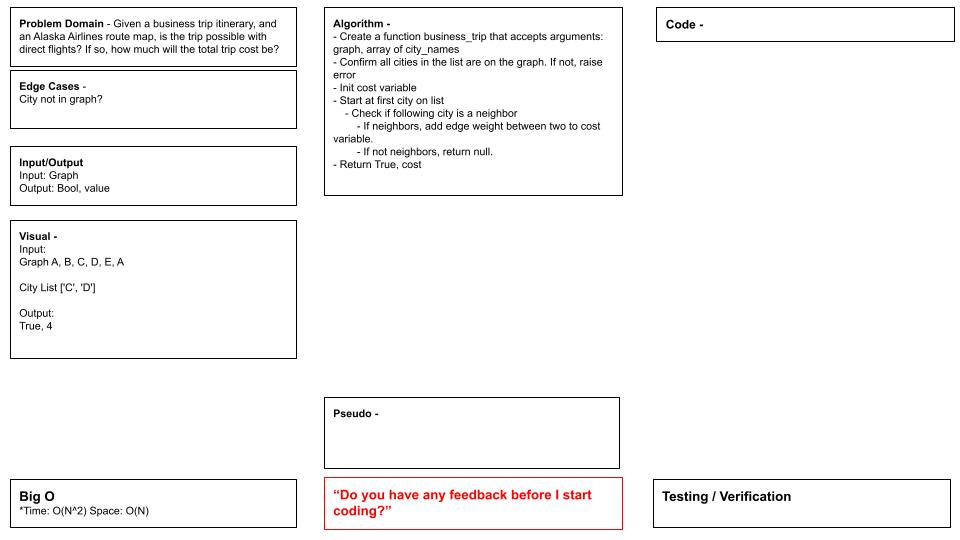
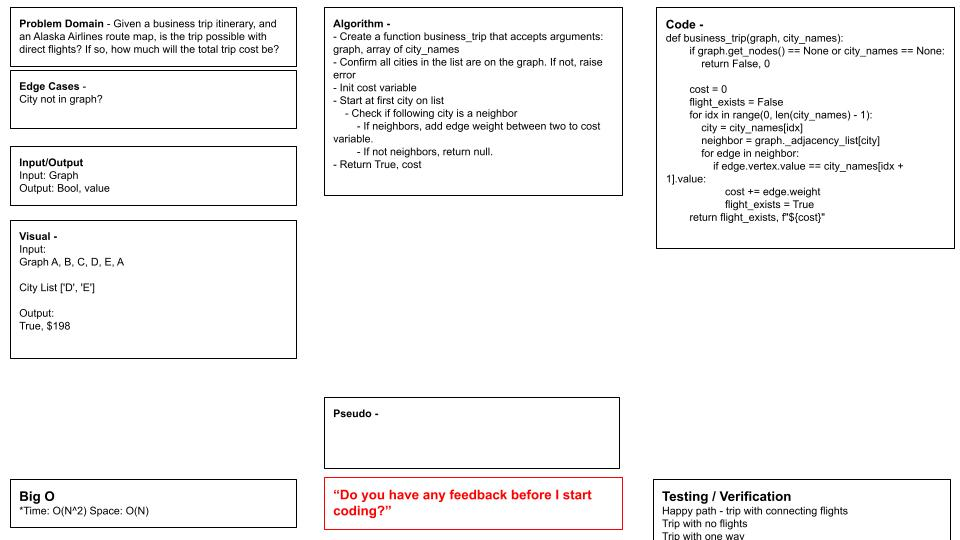
Tests Passing

diff --git a/python/code_challenges/graph_business_trip/graph_business_trip.py b/python/code_challenges/graph_business_trip/graph_business_trip.py
@@ -1,0 +1,116 @@
+class Graph:
+    def __init__(self):
+        self._adjacency_list = {}
+
+    def add_node(self, value):
+        """
+        add node
+        Arguments: value
+        Returns: The added node
+        Add a node to the graph
+        """
+        v = Vertex(value)
+        self._adjacency_list[v] = []
+        return v
+
+    def add_edge(self, start_vertex, end_vertex, weight=1):
+        """
+        add edges
+        Arguments: 2 nodes to be connected by the edge, weight (optional)
+        Returns: nothing
+        Adds a new edge between two nodes in the graph
+        If specified, assign a weight to the edge
+        Both nodes should already be in the Graph
+        """
+        if start_vertex not in self._adjacency_list:
+            raise KeyError("Starting Vertex not in Graph")
+        if end_vertex not in self._adjacency_list:
+            raise KeyError("End Vertex not in Graph")
+
+        edge = Edge(end_vertex, weight)
+        adjacencies = self._adjacency_list[start_vertex]
+        adjacencies.append(edge)
+
+    def get_nodes(self):
+        """
+        Arguments: none
+        Returns all of the nodes in the graph as a collection (set, list, or similar)
+        """
+        if self._adjacency_list == {}:
+            return None
+        else:
+            nodes = [*self._adjacency_list]
+            print(nodes)
+
+            for i in range(len(nodes)):
+                nodes[i] = nodes[i].value
+
+            return nodes
+
+    def get_neighbors(self, node):
+        """
+        Arguments: node
+        Returns a collection of edges connected to the given node
+        Include the weight of the connection in the returned collection
+        """
+        nodes = [*self._adjacency_list]
+        print(nodes)
+
+        for i in range(len(nodes)):
+            if nodes[i].value == node:
+                adjacencies = self._adjacency_list[nodes[i]]
+                print(adjacencies)
+
+                adjacencies_with_weight = [
+                    adjacencies[i].vertex.value,
+                    adjacencies[i].weight,
+                ]
+
+                return adjacencies_with_weight
+            else:
+                raise KeyError("Null")
+
+    def size(self):
+        """
+        size
+        Arguments: none
+        Returns the total number of nodes in the graph
+        """
+        return len(self._adjacency_list)
+
+    def business_trip(graph, city_names):
+        if graph.get_nodes() == None or city_names == None:
+            return False, 0
+
+        cost = 0
+        flight_exists = False
+        for idx in range(0, len(city_names) - 1):
+            city = city_names[idx]
+            neighbor = graph._adjacency_list[city]
+            for edge in neighbor:
+                if edge.vertex.value == city_names[idx + 1].value:
+                    cost += edge.weight
+                    flight_exists = True
+        return flight_exists, f"${cost}"
+
+
+class Vertex:
+    def __init__(self, value):
+        self.value = value
+
+
+class Edge:
+    def __init__(self, vertex, weight=1):
+        self.vertex = vertex
+        self.weight = weight
+
+
+if __name__ == "__main__":
+    graph = Graph()
+    a = graph.add_node("a")
+    b = graph.add_node("b")
+    c = graph.add_node("c")
+    graph.add_edge(a, b, 10)
+    graph.add_edge(a, c, 345)
+    flight = [a, c]
+    print(graph.business_trip(flight))

diff --git a/python/tests/test_graph_business_trip.py b/python/tests/test_graph_business_trip.py
@@ -1,54 +1,35 @@
 import pytest
-from code_challenges.graph.graph import Graph, Edge, Vertex
-from code_challenges.graph_business_trip.graph_buiness_trip import business_trip
-
-@pytest.mark.parametrize(
-    'city_names, expected',
-    [
-        ([Metroville, Pandora, ]	True, $82
-        [Arendelle, New Monstropolis, Naboo]	True, $115
-        [Naboo, Pandora]	False, $0
-        [Narnia, Arendelle, Naboo]
+from code_challenges.graph_business_trip.graph_business_trip import Graph
 
 
-        # airports = [
-#     "Metroville",
-#     "Pandora",
-#     "Arendelle",
-#     "New_Monstropolis",
-#     "Naboo",
-#     "Narnia",
-# ]
+def test_business_trip_with_one_way_flight():
+    graph = Graph()
+    a = graph.add_node("a")
+    c = graph.add_node("c")
+    graph.add_edge(a, c, 345)
+    actual = graph.business_trip([a, c])
+    expected = (True, "$345")
+    assert actual == expected
 
-# routes = (["Metroville", "Pandora"],)
-# ["Arendelle", "New_Monstropolis", "Naboo"]
 
-def test_business_trip(city_names, expected):
-    cities = Graph()
-    metroville = cities.add_node("Metroville")
-    pandora = cities.add_node("Pandora")
-    arendelle = cities.add_node("Arendelle")
-    new_monstropolis = cities.add_node("New Monstropolis")
-    naboo = cities.add_node("Naboo")
-    narnia = cities.add_node("Narnia")
-    cities.add_edge(metroville, pandora, 82)
-    cities.add_edge(pandora, metroville, 82)
-    cities.add_edge(arendelle, new_monstropolis, 42)
-    cities.add_edge(new_monstropolis, arendelle, 42)
-    cities.add_edge(new_monstropolis, naboo, 73)
-    cities.add_edge(naboo, new_monstropolis, 73)
-    cities.add_edge(metroville, arendelle, 99)
-    cities.add_edge(arendelle, metroville, 99)
-    cities.add_edge(metroville, new_monstropolis, 105)
-    cities.add_edge(new_monstropolis, metroville, 105)
-    cities.add_edge(metroville, narnia, 37)
-    cities.add_edge(narnia, metroville, 37)
-    cities.add_edge(naboo, metroville, 26)
-    cities.add_edge(metroville, naboo, 26)
-    cities.add_edge(pandora, arendelle, 150)
-    cities.add_edge(arendelle, pandora, 150)
-    cities.add_edge(narnia, naboo, 250)
-    cities.add_edge(naboo, narnia, 250)
+def test_business_trip_with_connecting_flight():
+    graph = Graph()
+    a = graph.add_node("a")
+    b = graph.add_node("b")
+    c = graph.add_node("c")
+    graph.add_edge(a, b, 10)
+    graph.add_edge(b, c, 345)
+    actual = graph.business_trip([a, b, c])
+    expected = (True, "$355")
+    assert actual == expected
 
-    actual = business_trip(cities, city_names)
+
+def test_business_trip_with_no_flight_available():
+    graph = Graph()
+    a = graph.add_node("a")
+    b = graph.add_node("b")
+    c = graph.add_node("c")
+    graph.add_edge(a, c, 345)
+    actual = graph.business_trip([a, b])
+    expected = (False, "$0")
     assert actual == expected

diff --git a/python/code_challenges/graph/graph.py b/python/code_challenges/graph/graph.py
@@ -1,4 +1,4 @@
-from code_challenges.stack_and_queue.stack_and_queue import Node, Queue
+from code_challenges.stack_and_queue.stack_and_queue import Queue
 
 # Instance of Graph, Vertex, open
 # Methods: add_node, add_edge, get_nodes, get_neighbors, size
@@ -40,7 +40,8 @@ class Graph:
     def get_nodes(self):
         """
         Arguments: none
-        Returns all of the nodes in the graph as a collection (set, list, or similar)
+        Returns all of the nodes in the graph as a
+        collection (set, list, or similar)
         """
         if self._adjacency_list == {}:
             return None
@@ -107,6 +108,32 @@ class Graph:
 
         return visited_vertices
 
+    def depth_first(self, origin_vertex):
+        visited_vertices = []
+        known_neighbors = []
+        origin_vertex = Graph.vertex_converter(self, origin_vertex)
+
+        def traverse(vertex):
+            visited_vertices.append(vertex.value)
+            for neighbor in self._adjacency_list[vertex]:
+                if neighbor.vertex not in known_neighbors and neighbor.vertex.value not in visited_vertices:
+                    known_neighbors.append(neighbor.vertex)
+                    traverse(neighbor.vertex)
+                    known_neighbors.pop(-1)
+
+        traverse(origin_vertex)
+        return visited_vertices
+
+    @staticmethod
+    def vertex_converter(self, selected_value):
+        i = 0
+        for vertex in self._adjacency_list:
+            if vertex.value == selected_value:
+                return vertex
+            i += 1
+            if i == self.size():
+                raise KeyError("Vertex not in graph")
+
 
 class Vertex:
     def __init__(self, value):
@@ -129,14 +156,23 @@ if __name__ == "__main__":
     f = graph.add_node("f")
     g = graph.add_node("g")
     h = graph.add_node("h")
+    # graph.add_edge(a, b)
+    # graph.add_edge(a, c)
+    # graph.add_edge(b, d)
+    # graph.add_edge(c, d)
+    # graph.add_edge(a, e)
+    # graph.add_edge(e, f)
+    # graph.add_edge(e, g)
+    # graph.add_edge(f, h)
     graph.add_edge(a, b)
-    graph.add_edge(a, c)
-    graph.add_edge(b, d)
-    graph.add_edge(c, d)
-    graph.add_edge(a, e)
-    graph.add_edge(e, f)
-    graph.add_edge(e, g)
+    graph.add_edge(a, d)
+    graph.add_edge(b, c)
+    graph.add_edge(c, g)
+    graph.add_edge(d, e)
+    graph.add_edge(d, h)
+    graph.add_edge(d, f)
     graph.add_edge(f, h)
-    print(graph.get_neighbors(a))
-    print(a, b)
-    print(graph.breadth_first("a"))
+    # print(graph.get_neighbors(a))
+    # print(a, b)
+    # print(graph.breadth_first("a"))
+    print(graph.depth_first("a"))

diff --git a/python/tests/test_graph.py b/python/tests/test_graph.py
@@ -21,7 +21,6 @@ def test_graph():
     graph.add_edge(e, f)
     graph.add_edge(e, g)
     graph.add_edge(f, h)
-
     return graph
 
 
@@ -129,6 +128,18 @@ def test_breadth_first(test_graph):
 def test_breadth_first_fail(test_graph):
     try:
         test_graph.breadth_first("i")
+        assert False
+    except KeyError:
+        assert True
+
+
+def test_depth_first(test_graph):
+    assert test_graph.depth_first("a") == ["a", "b", "d", "c", "e", "f", "h", "g"]
+
+
+def test_depth_first_fail(test_graph):
+    try:
+        test_graph.depth_first("k")
         assert False
     except KeyError:
         assert True
